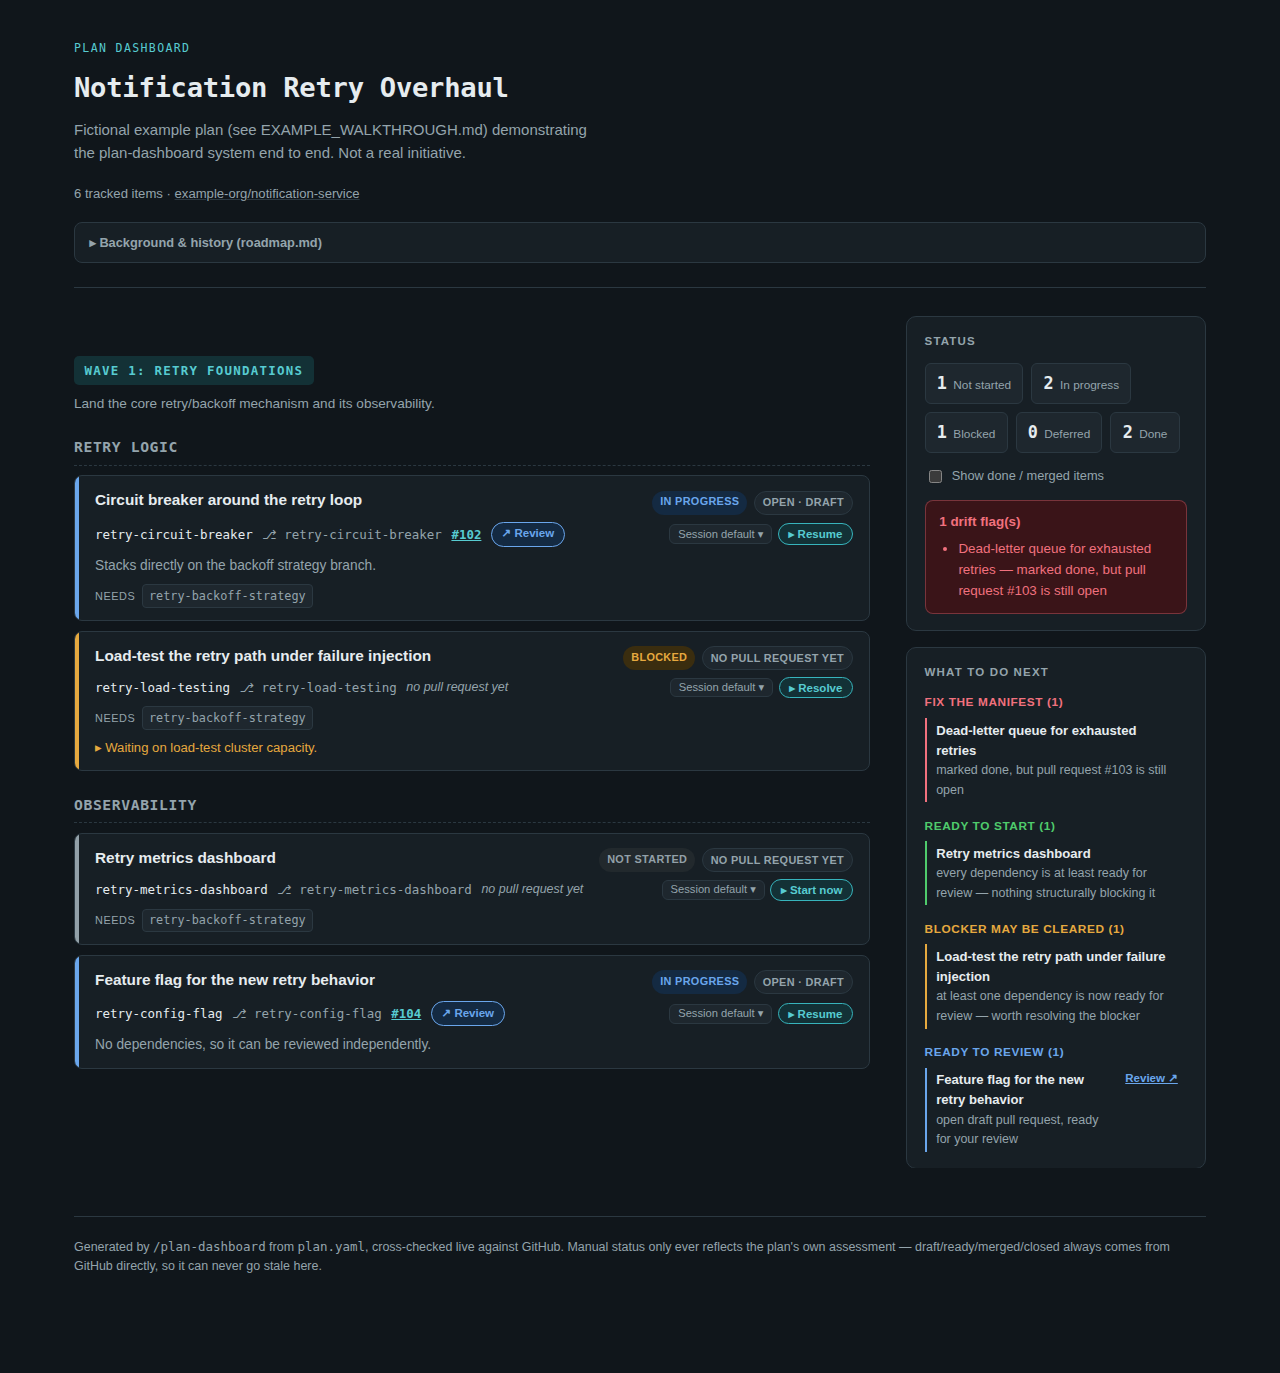
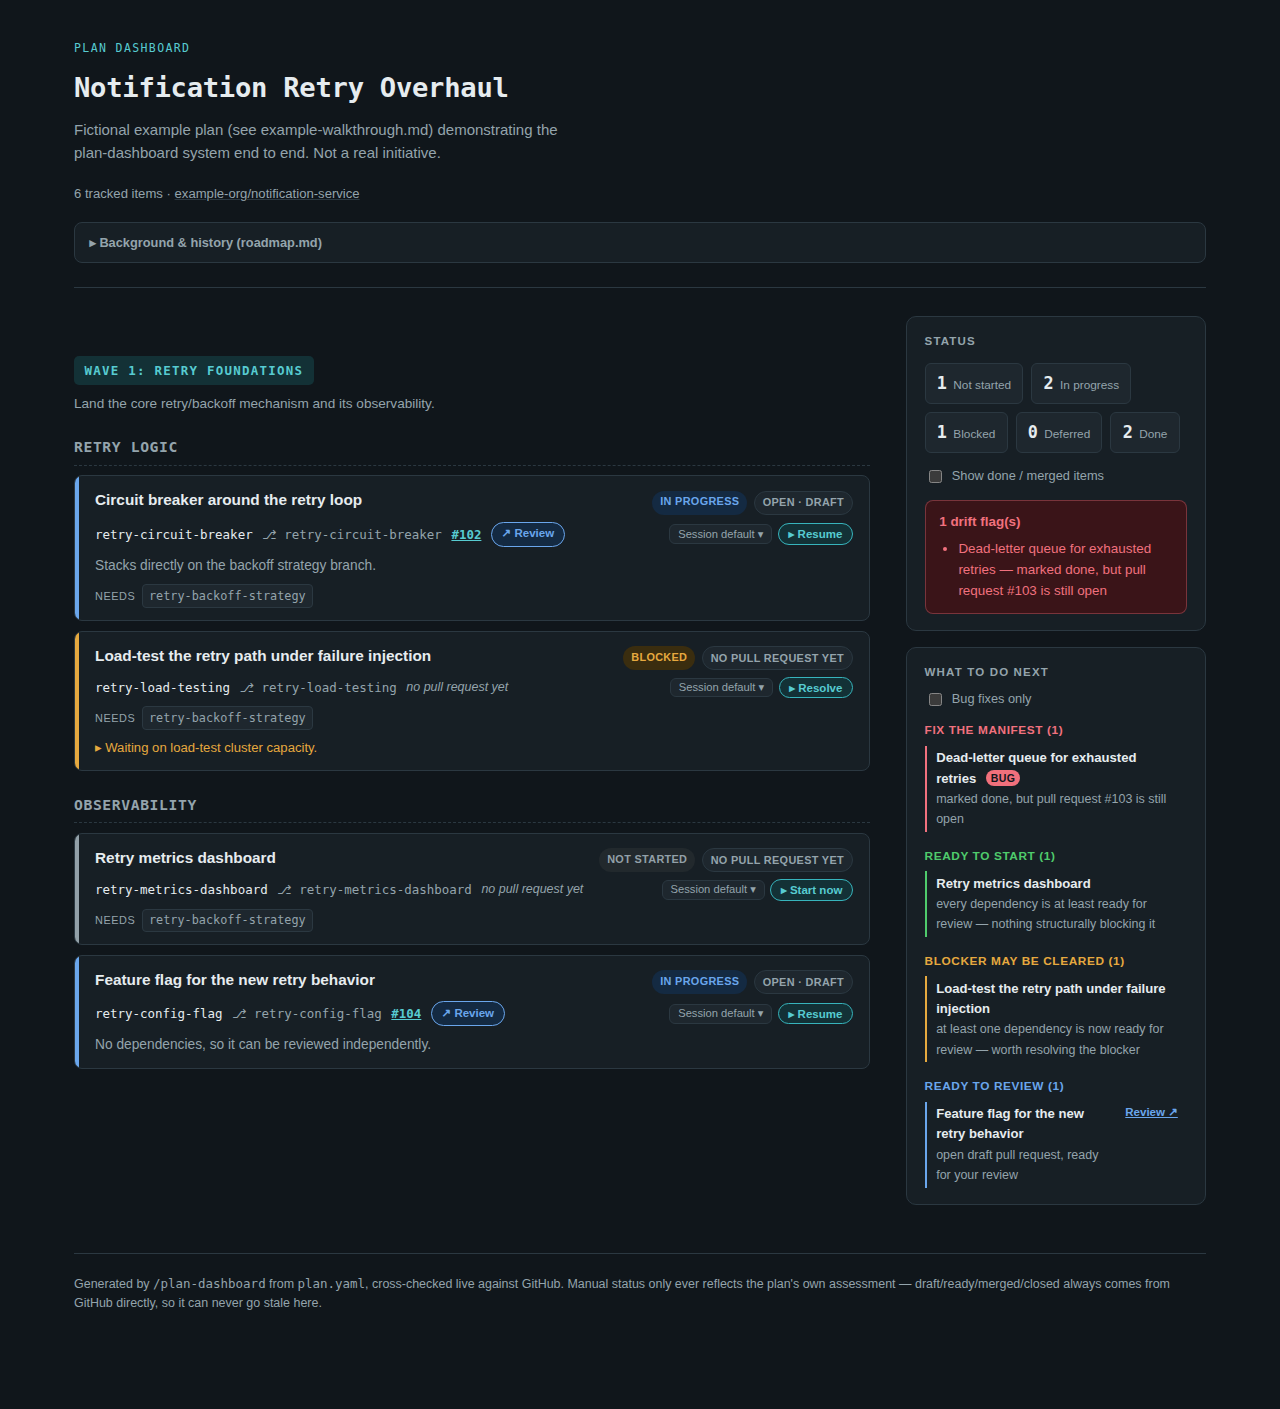
Add a bug-fixes-only filter to the dashboard sidebar
Ticking "Bug fixes only" in the "What to do next" card hides every entry
that is not a bug fix, along with any group left holding none. The
checkbox is rendered only when at least one entry is a bug fix, so it can
never filter the card down to nothing.

Both counts are rendered up front and swapped by CSS rather than
recomputed in script, so a group's heading reports what it is actually
showing - the same approach the done-items toggle already takes with its
two precomputed indent levels.

Also demonstrates the chip and the filter in the committed example: pull
request #103 gains a bug label, and the walkthrough's screenshots are
regenerated, with a third showing the filter applied.

Made with the help of Claude

diff --git a/plugin/skills/plan-dashboard/templates/dashboard.html b/plugin/skills/plan-dashboard/templates/dashboard.html
@@ -303,6 +303,26 @@
   .next-ready li { border-color: var(--status-done); }
   .next-recheck li { border-color: var(--status-blocked); }
   .next-reason { color: var(--text-muted); font-size: 0.78rem; }
+
+  /* The bug-fixes-only filter. Both counts are rendered up front and swapped
+     here, rather than recomputed in script when the box is ticked - the same
+     approach the done-items toggle takes with its two indent levels. */
+  .bug-filter-toggle {
+    display: flex;
+    align-items: center;
+    gap: 0.45rem;
+    margin: -0.25rem 0 0.75rem;
+    font-size: 0.8rem;
+    color: var(--text-muted);
+    cursor: pointer;
+  }
+  .bug-filter-toggle input { accent-color: var(--bug); cursor: pointer; }
+  .next-count-bug { display: none; }
+  .bug-fixes-only .next-count-all { display: none; }
+  .bug-fixes-only .next-count-bug { display: inline; }
+  .bug-fixes-only .next-group:not(.next-group-has-bugs) { display: none; }
+  .bug-fixes-only .next-entry:not(.next-entry-bug) { display: none; }
+
   .next-bug-chip {
     display: inline-block;
     margin-left: 0.35rem;
@@ -733,11 +753,12 @@
 #}
 {% macro next_step_group(group_class, heading, items, show_review_link=false) %}
 {%- if items %}
-          <div class="next-group {{ group_class }}">
-            <h4>{{ heading }} ({{ items | length }})</h4>
+{%- set bug_fixes = items | selectattr("is_bug_fix") | list %}
+          <div class="next-group {{ group_class }}{% if bug_fixes %} next-group-has-bugs{% endif %}">
+            <h4>{{ heading }} <span class="next-count-all">({{ items | length }})</span><span class="next-count-bug">({{ bug_fixes | length }})</span></h4>
             <ul>
             {% for item in items %}
-              <li>
+              <li class="next-entry{% if item.is_bug_fix %} next-entry-bug{% endif %}">
                 <a class="next-item-link" href="#item-{{ item.identifier }}" data-item-identifier="{{ item.identifier }}" onclick="planDashboardHighlightItem(event, this)"><strong>{{ item.title }}</strong>{% if item.is_bug_fix %} <span class="next-bug-chip">bug</span>{% endif %}<br><span class="next-reason">{{ caller(item) }}</span></a>
                 {%- if show_review_link %}
                 <a class="next-review-link" href="{{ item.pull_request_url }}" target="_blank" rel="noopener">Review ↗</a>
@@ -748,8 +769,14 @@
           </div>
 {% endif %}
 {%- endmacro %}
-      <div class="sidebar-card">
+      <div class="sidebar-card" id="next-steps-card">
         <h3>What to do next</h3>
+        {% if has_bug_fix_next_steps %}
+        <label class="bug-filter-toggle">
+          <input type="checkbox" id="bug-fixes-only-toggle" onchange="document.getElementById('next-steps-card').classList.toggle('bug-fixes-only', this.checked)">
+          Bug fixes only
+        </label>
+        {% endif %}
         {% if drift_items or ready_to_review or ready_to_start or blocker_maybe_cleared %}
           {% call(item) next_step_group("next-drift", "Fix the manifest", drift_items) %}{{ item.drift_description }}{% endcall %}
           {% call(item) next_step_group("next-ready", "Ready to start", ready_to_start) %}every dependency is at least ready for review — nothing structurally blocking it{% endcall %}

diff --git a/plugin/skills/plan-dashboard/tests/test_build_dashboard.py b/plugin/skills/plan-dashboard/tests/test_build_dashboard.py
@@ -1034,6 +1034,77 @@ def test_render_leaves_a_non_bug_sidebar_entry_without_a_bug_chip():
     assert '<span class="next-bug-chip">bug</span>' not in output
 
 
+# %% DashboardRenderer - bug-fixes-only sidebar filter
+
+
+def _renderer_with_one_bug_fix_and_one_other_entry() -> DashboardRenderer:
+    """Build a renderer whose sidebar holds two entries in two different
+    groups, exactly one of which is a bug fix - the smallest input that
+    distinguishes the filter's per-entry and per-group behaviour."""
+    pull_requests_by_repository = {
+        "owner/repo": {
+            "1": PullRequestRecord(
+                state=PullRequestState.OPEN,
+                draft=True,
+                labels=[PullRequestLabel.BUG.value],
+            ),
+            "2": PullRequestRecord(state=PullRequestState.OPEN, draft=False),
+        }
+    }
+    return make_renderer(
+        [
+            item("a", ItemStatus.IN_PROGRESS, pull_request_number=1),
+            item("b", ItemStatus.DONE, pull_request_number=2),
+        ],
+        pull_requests_by_repository=pull_requests_by_repository,
+    )
+
+
+def test_bug_fixes_only_toggle_is_offered_when_a_sidebar_entry_is_a_bug_fix():
+    renderer = _renderer_with_one_bug_fix_and_one_other_entry()
+    output, _ = renderer.render()
+    assert 'id="bug-fixes-only-toggle"' in output
+
+
+def test_bug_fixes_only_toggle_is_omitted_when_no_sidebar_entry_is_a_bug_fix():
+    pull_requests_by_repository = {
+        "owner/repo": {"1": PullRequestRecord(state=PullRequestState.OPEN, draft=True)}
+    }
+    renderer = make_renderer(
+        [item("a", ItemStatus.IN_PROGRESS, pull_request_number=1)],
+        pull_requests_by_repository=pull_requests_by_repository,
+    )
+    output, _ = renderer.render()
+    assert 'id="bug-fixes-only-toggle"' not in output
+
+
+def test_bug_fix_entry_is_marked_so_the_filter_can_keep_it():
+    renderer = _renderer_with_one_bug_fix_and_one_other_entry()
+    output, _ = renderer.render()
+    assert '<li class="next-entry next-entry-bug">' in output
+    assert '<li class="next-entry">' in output
+
+
+def test_group_holding_a_bug_fix_is_marked_so_the_filter_can_keep_it():
+    renderer = _renderer_with_one_bug_fix_and_one_other_entry()
+    output, _ = renderer.render()
+    assert '<div class="next-group next-review next-group-has-bugs">' in output
+    assert '<div class="next-group next-drift">' in output
+
+
+def test_group_heading_carries_both_the_total_and_the_bug_fix_count():
+    renderer = _renderer_with_one_bug_fix_and_one_other_entry()
+    output, _ = renderer.render()
+    assert (
+        'Ready to review <span class="next-count-all">(1)</span>'
+        '<span class="next-count-bug">(1)</span>' in output
+    )
+    assert (
+        'Fix the manifest <span class="next-count-all">(1)</span>'
+        '<span class="next-count-bug">(0)</span>' in output
+    )
+
+
 # %% DashboardRenderer - item action button
 
 
@@ -1465,7 +1536,7 @@ def test_render_shows_ready_to_review_sidebar_section():
         tracking_url=None,
     )
     output, _ = renderer.render()
-    assert "Ready to review (1)" in output
+    assert '<div class="next-group next-review">' in output
     assert (
         'class="next-review-link" href="https://github.com/owner/repo/pull/5"' in output
     )
@@ -1915,3 +1986,13 @@ def test_example_plan_renders_the_counts_and_sections_the_walkthrough_describes(
         "Load-test the retry path under failure injection"
     ]
     assert summary.ready_to_review == ["Feature flag for the new retry behavior"]
+
+
+def test_example_plan_demonstrates_the_bug_chip_and_its_filter():
+    """The walkthrough's screenshots show both, so the sample data has to keep
+    producing them - and the chip must not disturb the grouping the test above
+    pins."""
+    output, _ = _render_example_plan()
+    assert output.count('<span class="next-bug-chip">bug</span>') == 1
+    assert 'id="bug-fixes-only-toggle"' in output
+    assert '<div class="next-group next-drift next-group-has-bugs">' in output

diff --git a/plugin/skills/plan-dashboard/build_dashboard.py b/plugin/skills/plan-dashboard/build_dashboard.py
@@ -1003,6 +1003,9 @@ class DashboardRenderer:
         drift_items = [item for item in self.plan.items if item.drift_description]
         ready_to_start, blocker_maybe_cleared = self._compute_next_steps()
         ready_to_review = self._compute_ready_to_review()
+        next_step_items = (
+            drift_items + ready_to_start + blocker_maybe_cleared + ready_to_review
+        )
 
         template = create_template_environment().get_template("dashboard.html")
         output = template.render(
@@ -1018,6 +1021,7 @@ class DashboardRenderer:
             ready_to_start=ready_to_start,
             blocker_maybe_cleared=blocker_maybe_cleared,
             ready_to_review=ready_to_review,
+            has_bug_fix_next_steps=any(item.is_bug_fix for item in next_step_items),
             roadmap_html=render_markdown_to_html(self.roadmap_text),
             waves=self._build_wave_sections(),
             available_models=AVAILABLE_MODELS,

diff --git a/plugin/skills/plan-dashboard/example-walkthrough.md b/plugin/skills/plan-dashboard/example-walkthrough.md
@@ -148,6 +148,18 @@ A few things worth noticing in this one small example:
 - **Done items are hidden by default** — the sidebar's "Show done / merged
   items" checkbox reveals `retry-backoff-strategy` and `retry-fallback-queue`
   when you want them back.
+- **A `bug` chip** — `retry-fallback-queue`'s pull request carries the `bug`
+  label, so its sidebar entry is marked as a bug fix. The chip appears
+  wherever the item already sits; being a bug fix is a property of the work,
+  not a next action, so it never moves an item between groups.
+
+When you only care about the bug fixes, the "Bug fixes only" checkbox hides
+every other entry — and any group left with nothing in it:
+
+![The "What to do next" card with "Bug fixes only" ticked, leaving one entry](./example/screenshots/dashboard-bug-filter.png)
+
+The checkbox only appears when at least one entry is a bug fix, and each
+group's count switches to the number it is actually showing.
 
 ## 5. Kick off, resolve, or review a specific item
 

diff --git a/plugin/skills/plan-dashboard/SKILL.md b/plugin/skills/plan-dashboard/SKILL.md
@@ -161,7 +161,10 @@ open PR too (the dependency need not itself be past review — just open —
 so a whole reviewable stack can surface before its base has merged). Any
 sidebar entry whose PR carries the `bug` label is marked with a `bug` chip
 where it already sits: a bug fix is a property of the work rather than an
-action of its own, so it is never grouped or ordered separately.
+action of its own, so it is never grouped or ordered separately. A "Bug
+fixes only" checkbox — shown only when some entry is a bug fix — filters the
+sidebar down to them, client-side, with each group's shown count swapped in
+alongside its total the same way the done-items toggle swaps indent levels.
 Renders the final HTML — including `roadmap.md` converted to HTML and
 shown in a collapsed `<details>` section, and the tracking-issue link if
 one was passed. None of that is this document's job to describe further;

diff --git a/plugin/hooks/README.md b/plugin/hooks/README.md
@@ -119,8 +119,9 @@ regenerates from every manifest on each save, so it can't drift.
 - `merged` — the changes landed but GitHub's merge API never recorded it (branch pushed directly,
   PR then closed by hand). Treated exactly like a real merge.
 - `bug` — marks the item with a `bug` chip in the dashboard's "What to do next" sidebar, in
-  whichever action group it already belongs to. Being a bug fix is a property of the work, not a
-  next action of its own, so it never moves an item into a group or out of one.
+  whichever action group it already belongs to, and is what the sidebar's "Bug fixes only" filter
+  keeps. Being a bug fix is a property of the work, not a next action of its own, so it never
+  moves an item into a group or out of one.
 - `in-review` — recognized so it doesn't read as an unknown label; no script acts on it yet.
 
 Any other label is preserved but not interpreted.
